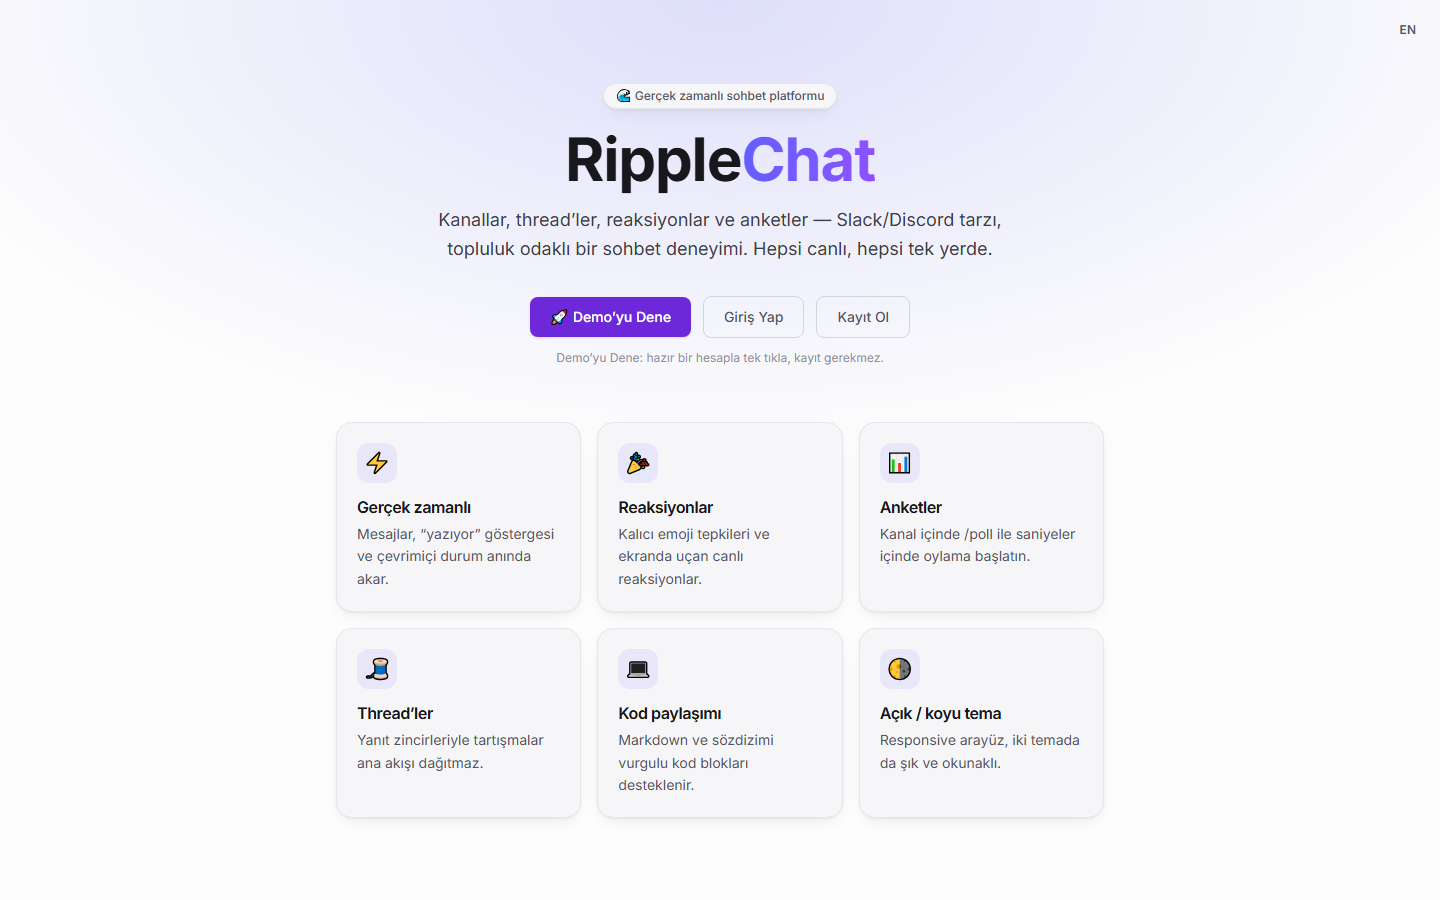
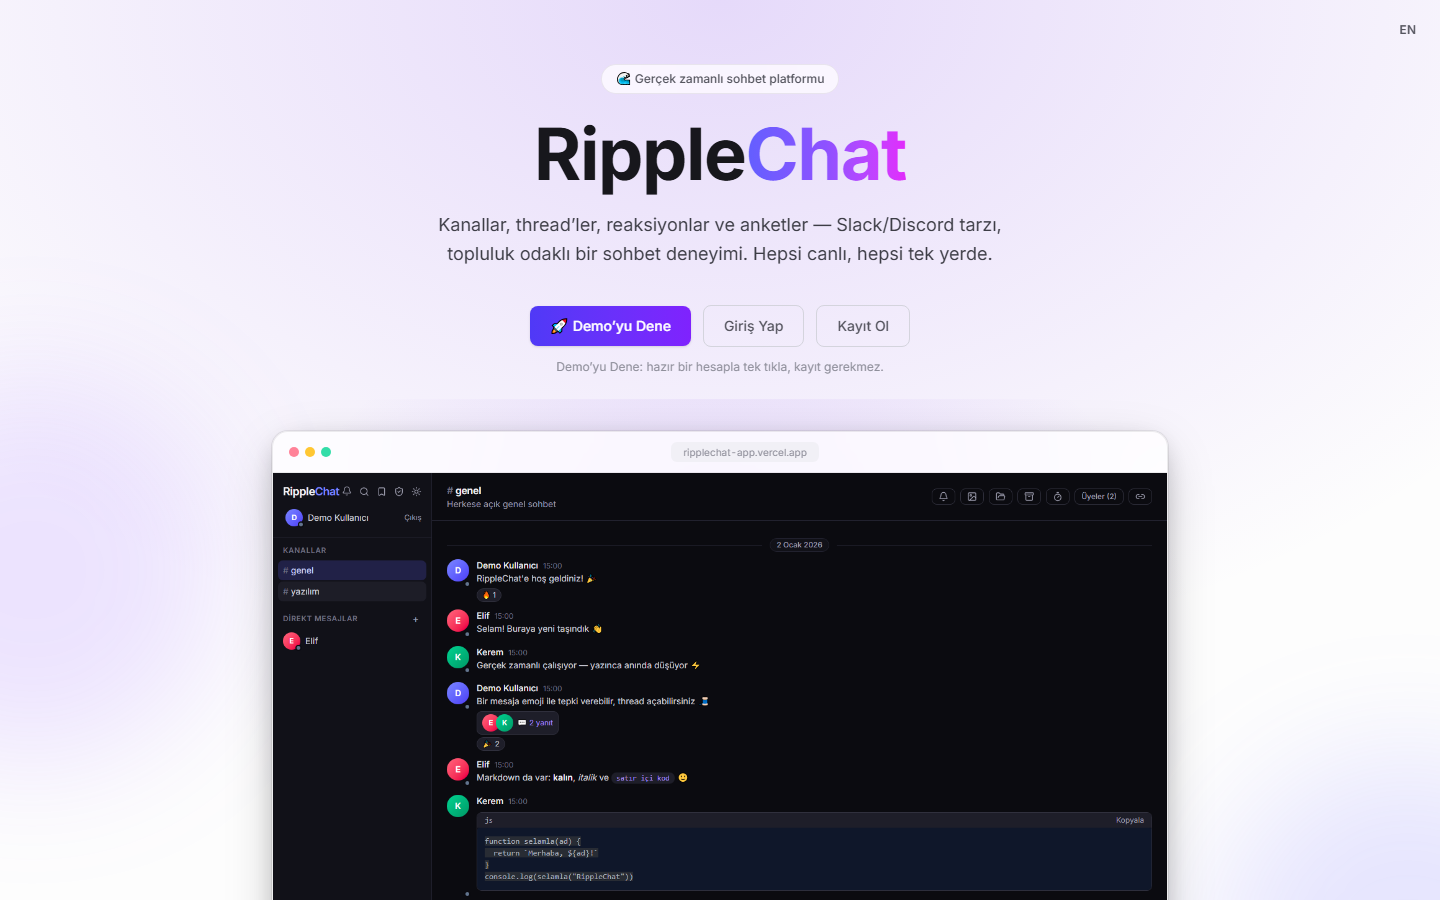
feat(frontend): redesigned landing — aurora hero, browser-framed product shot, glass cards
The landing is the first impression and now sells the product: an
aurora backdrop in the brand hue, a gradient display title, a glowing
gradient CTA, the dark-theme channel view inside a browser frame with
a halo, and glass feature cards with line icons replacing the emoji
tiles. The demo/login flows, wake notice and e2e-asserted names are
untouched; the social card now uses the landing itself.

diff --git a/frontend/src/pages/LandingPage.tsx b/frontend/src/pages/LandingPage.tsx
@@ -1,5 +1,6 @@
 import { useState } from 'react'
 import { Navigate, useNavigate } from 'react-router-dom'
+import { BarChart3, Code2, MessagesSquare, MoonStar, SmilePlus, Zap } from 'lucide-react'
 import { useAppDispatch, useAppSelector } from '../app/hooks'
 import { login } from '../features/auth/authSlice'
 import { useT } from '../i18n'
@@ -7,18 +8,19 @@ import Button from '../components/ui/Button'
 import LanguageToggle from '../components/LanguageToggle'
 import WakeNotice from '../components/ui/WakeNotice'
 import { useWakeNotice } from '../hooks/useWakeNotice'
+import productShot from '../assets/product-dark.png'
 
 // Public demo account (seeded server-side). Credentials are intentionally
 // public — one click signs in through the normal auth flow and gets a real token.
 const DEMO = { login: 'demo', password: 'demo1234' }
 
 const FEATURES = [
-  { icon: '⚡', key: 'realtime' },
-  { icon: '🎉', key: 'reactions' },
-  { icon: '📊', key: 'polls' },
-  { icon: '🧵', key: 'threads' },
-  { icon: '💻', key: 'code' },
-  { icon: '🌗', key: 'theme' },
+  { icon: Zap, key: 'realtime' },
+  { icon: SmilePlus, key: 'reactions' },
+  { icon: BarChart3, key: 'polls' },
+  { icon: MessagesSquare, key: 'threads' },
+  { icon: Code2, key: 'code' },
+  { icon: MoonStar, key: 'theme' },
 ]
 
 const ctaClass = 'px-5 py-2.5 text-base'
@@ -45,32 +47,41 @@ export default function LandingPage() {
   }
 
   return (
-    <div className="relative flex min-h-screen flex-col items-center justify-center overflow-hidden px-4 py-16">
-      {/* Ambient brand glow */}
-      <div className="pointer-events-none absolute inset-0 bg-[radial-gradient(60%_50%_at_50%_0%,rgba(99,102,241,0.20),transparent)]" />
+    <div className="relative flex min-h-screen flex-col items-center overflow-hidden px-4 py-16">
+      {/* Aurora backdrop: two blurred brand blobs + a soft top wash. Purely
+          decorative, sits behind everything, adapts through the tokens. */}
+      <div className="pointer-events-none absolute inset-0" aria-hidden>
+        <div className="absolute inset-0 bg-[radial-gradient(70%_45%_at_50%_0%,var(--glow),transparent)]" />
+        <div className="absolute -left-40 top-1/4 h-96 w-96 rounded-full bg-violet-500/15 blur-3xl" />
+        <div className="absolute -right-40 top-1/2 h-96 w-96 rounded-full bg-indigo-500/15 blur-3xl" />
+      </div>
 
       <div className="absolute right-4 top-4 z-20">
         <LanguageToggle />
       </div>
 
-      <div className="relative z-10 w-full max-w-3xl text-center">
-        <span className="inline-flex items-center gap-1.5 rounded-full border border-border bg-surface-raised px-3 py-1 text-xs font-medium text-fg-muted shadow-card">
+      <div className="relative z-10 w-full max-w-5xl text-center">
+        <span className="glass inline-flex items-center gap-1.5 rounded-full px-3.5 py-1.5 text-xs font-medium text-fg-muted">
           {t('landing.badge')}
         </span>
 
-        <h1 className="mt-5 text-5xl font-bold tracking-tight sm:text-6xl">
+        <h1 className="mt-6 text-6xl font-bold tracking-tight sm:text-7xl">
           Ripple
-          <span className="bg-gradient-to-r from-indigo-500 to-violet-500 bg-clip-text text-transparent">
+          <span className="bg-gradient-to-r from-indigo-500 via-violet-500 to-fuchsia-500 bg-clip-text text-transparent">
             Chat
           </span>
         </h1>
 
-        <p className="mx-auto mt-4 max-w-xl text-lg leading-relaxed text-fg-secondary">
+        <p className="mx-auto mt-5 max-w-xl text-lg leading-relaxed text-fg-secondary">
           {t('landing.tagline')}
         </p>
 
-        <div className="mt-8 flex flex-col items-center justify-center gap-3 sm:flex-row">
-          <Button onClick={onDemo} disabled={demoLoading} className={ctaClass}>
+        <div className="mt-9 flex flex-col items-center justify-center gap-3 sm:flex-row">
+          <Button
+            onClick={onDemo}
+            disabled={demoLoading}
+            className={`${ctaClass} border-0 bg-gradient-to-r from-indigo-600 to-violet-600 shadow-glow hover:from-indigo-500 hover:to-violet-500`}
+          >
             {demoLoading ? t('landing.demoLoading') : t('landing.demo')}
           </Button>
           <Button variant="secondary" onClick={() => navigate('/login')} className={ctaClass}>
@@ -85,14 +96,32 @@ export default function LandingPage() {
         {demoError && <p className="mt-3 text-sm text-danger">{demoError}</p>}
         {!waking && <p className="mt-3 text-xs text-fg-faint">{t('landing.demoHint')}</p>}
 
-        <div className="mt-14 grid grid-cols-1 gap-4 text-left sm:grid-cols-2 lg:grid-cols-3">
+        {/* Product shot inside a browser frame — the dark theme is the hero. */}
+        <div className="relative mx-auto mt-14 max-w-4xl">
+          <div className="pointer-events-none absolute -inset-8 rounded-[2rem] bg-[radial-gradient(50%_60%_at_50%_40%,var(--glow),transparent)]" aria-hidden />
+          <figure className="glass relative overflow-hidden rounded-2xl shadow-elevated">
+            <figcaption className="flex items-center gap-2 border-b border-glass-border px-4 py-2.5" style={{ borderColor: 'var(--glass-border)' }}>
+              <span className="flex gap-1.5" aria-hidden>
+                <span className="h-2.5 w-2.5 rounded-full bg-rose-400/80" />
+                <span className="h-2.5 w-2.5 rounded-full bg-amber-400/80" />
+                <span className="h-2.5 w-2.5 rounded-full bg-emerald-400/80" />
+              </span>
+              <span className="mx-auto rounded-md bg-surface-muted/60 px-3 py-0.5 text-2xs text-fg-faint" data-tabular>
+                ripplechat-app.vercel.app
+              </span>
+            </figcaption>
+            <img src={productShot} alt={t('landing.productAlt')} className="block w-full" loading="lazy" />
+          </figure>
+        </div>
+
+        <div className="mt-16 grid grid-cols-1 gap-4 text-left sm:grid-cols-2 lg:grid-cols-3">
           {FEATURES.map((f) => (
             <div
               key={f.key}
-              className="rounded-2xl border border-border bg-surface-raised p-5 shadow-card transition duration-200 hover:-translate-y-0.5 hover:shadow-elevated"
+              className="glass rounded-2xl p-5 shadow-card transition duration-200 hover:-translate-y-1 hover:shadow-elevated"
             >
-              <div className="flex h-10 w-10 items-center justify-center rounded-xl bg-indigo-500/10 text-xl">
-                {f.icon}
+              <div className="flex h-10 w-10 items-center justify-center rounded-xl bg-gradient-to-br from-indigo-500/15 to-violet-500/15 text-accent">
+                <f.icon className="h-5 w-5" aria-hidden />
               </div>
               <div className="mt-3 font-semibold tracking-tight text-fg">{t(`feat.${f.key}.title`)}</div>
               <div className="mt-1 text-sm leading-relaxed text-fg-muted">{t(`feat.${f.key}.desc`)}</div>

diff --git a/frontend/src/i18n/translations.ts b/frontend/src/i18n/translations.ts
@@ -16,6 +16,7 @@ export const translations: Record<Lang, Record<string, string>> = {
     'landing.register': 'Kayıt Ol',
     'landing.demoError': 'Demo girişi şu an yapılamadı, lütfen tekrar dene.',
     'landing.demoHint': 'Demo’yu Dene: hazır bir hesapla tek tıkla, kayıt gerekmez.',
+    'landing.productAlt': 'RippleChat kanal görünümü — koyu tema',
 
     'wake.starting': 'Sunucu uyanıyor…',
     'wake.slow': 'Ücretsiz sunucu uykudan kalkıyor — ilk ziyaret birkaç dakika sürebilir.',
@@ -485,6 +486,7 @@ export const translations: Record<Lang, Record<string, string>> = {
     'landing.register': 'Sign up',
     'landing.demoError': 'Demo sign-in is unavailable right now, please try again.',
     'landing.demoHint': 'Try the demo: one click with a ready account, no sign-up needed.',
+    'landing.productAlt': 'RippleChat channel view — dark theme',
 
     'wake.starting': 'Server is waking up…',
     'wake.slow': 'The free-tier server is waking from sleep — the first visit can take a few minutes.',
